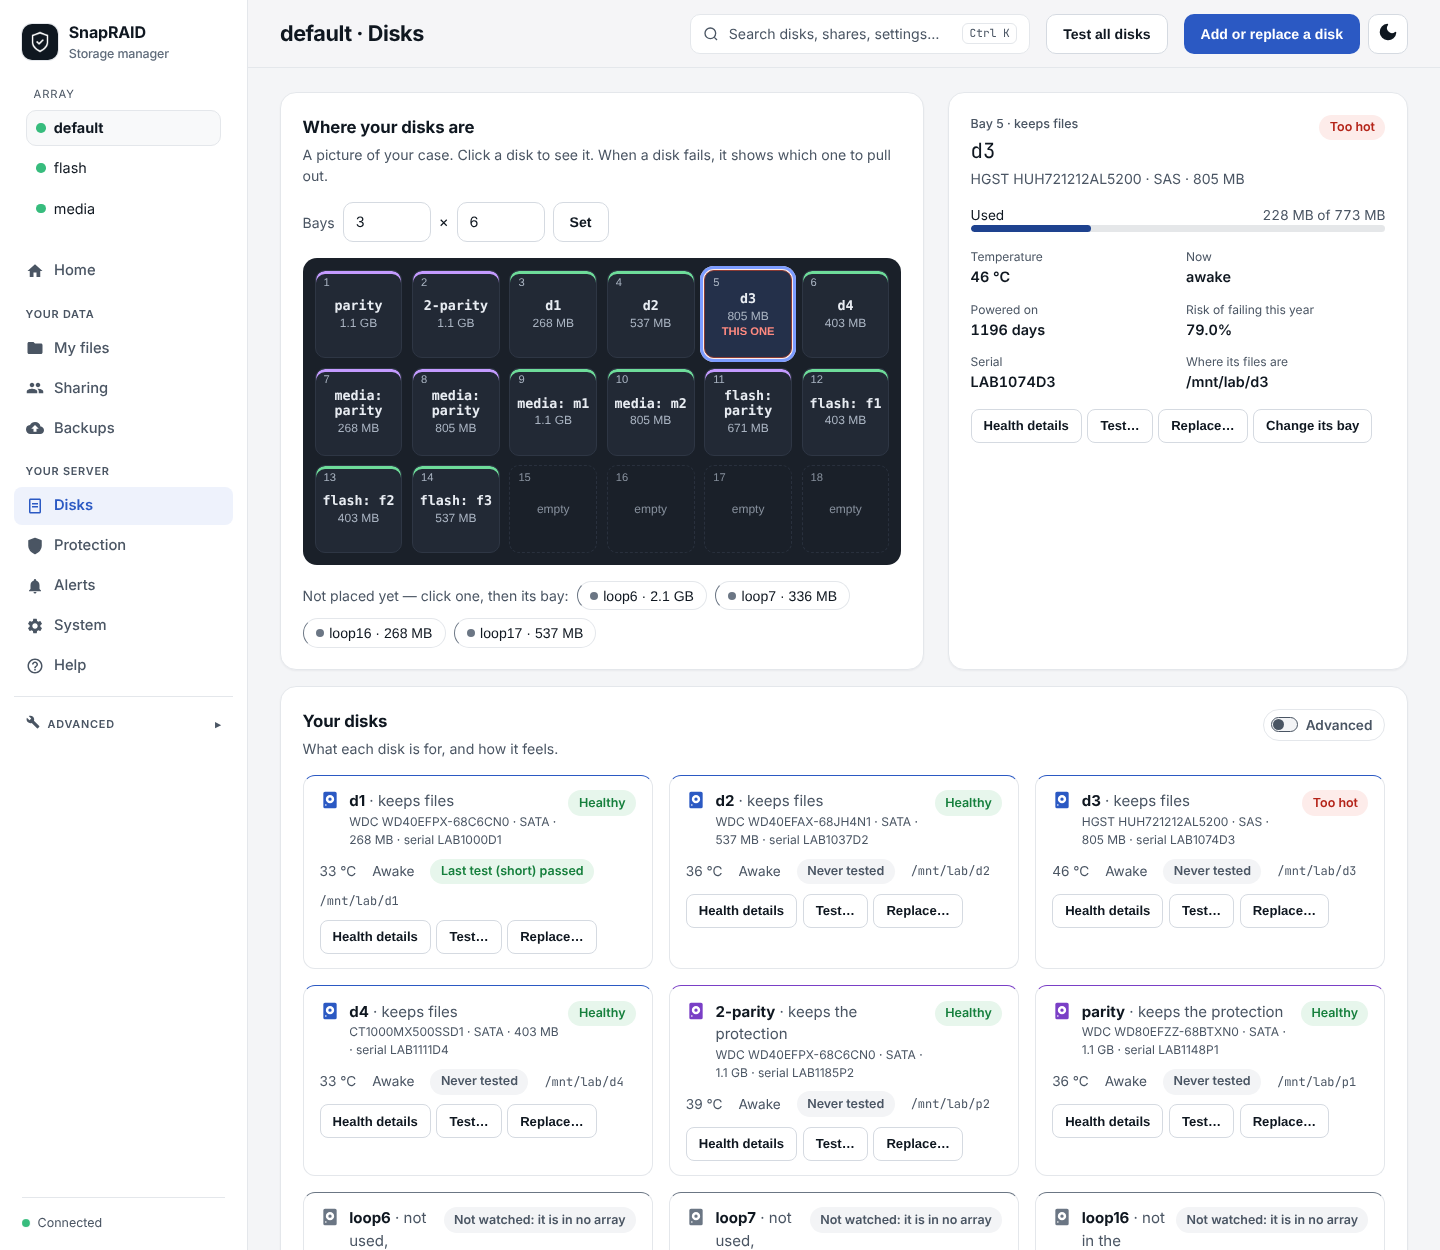
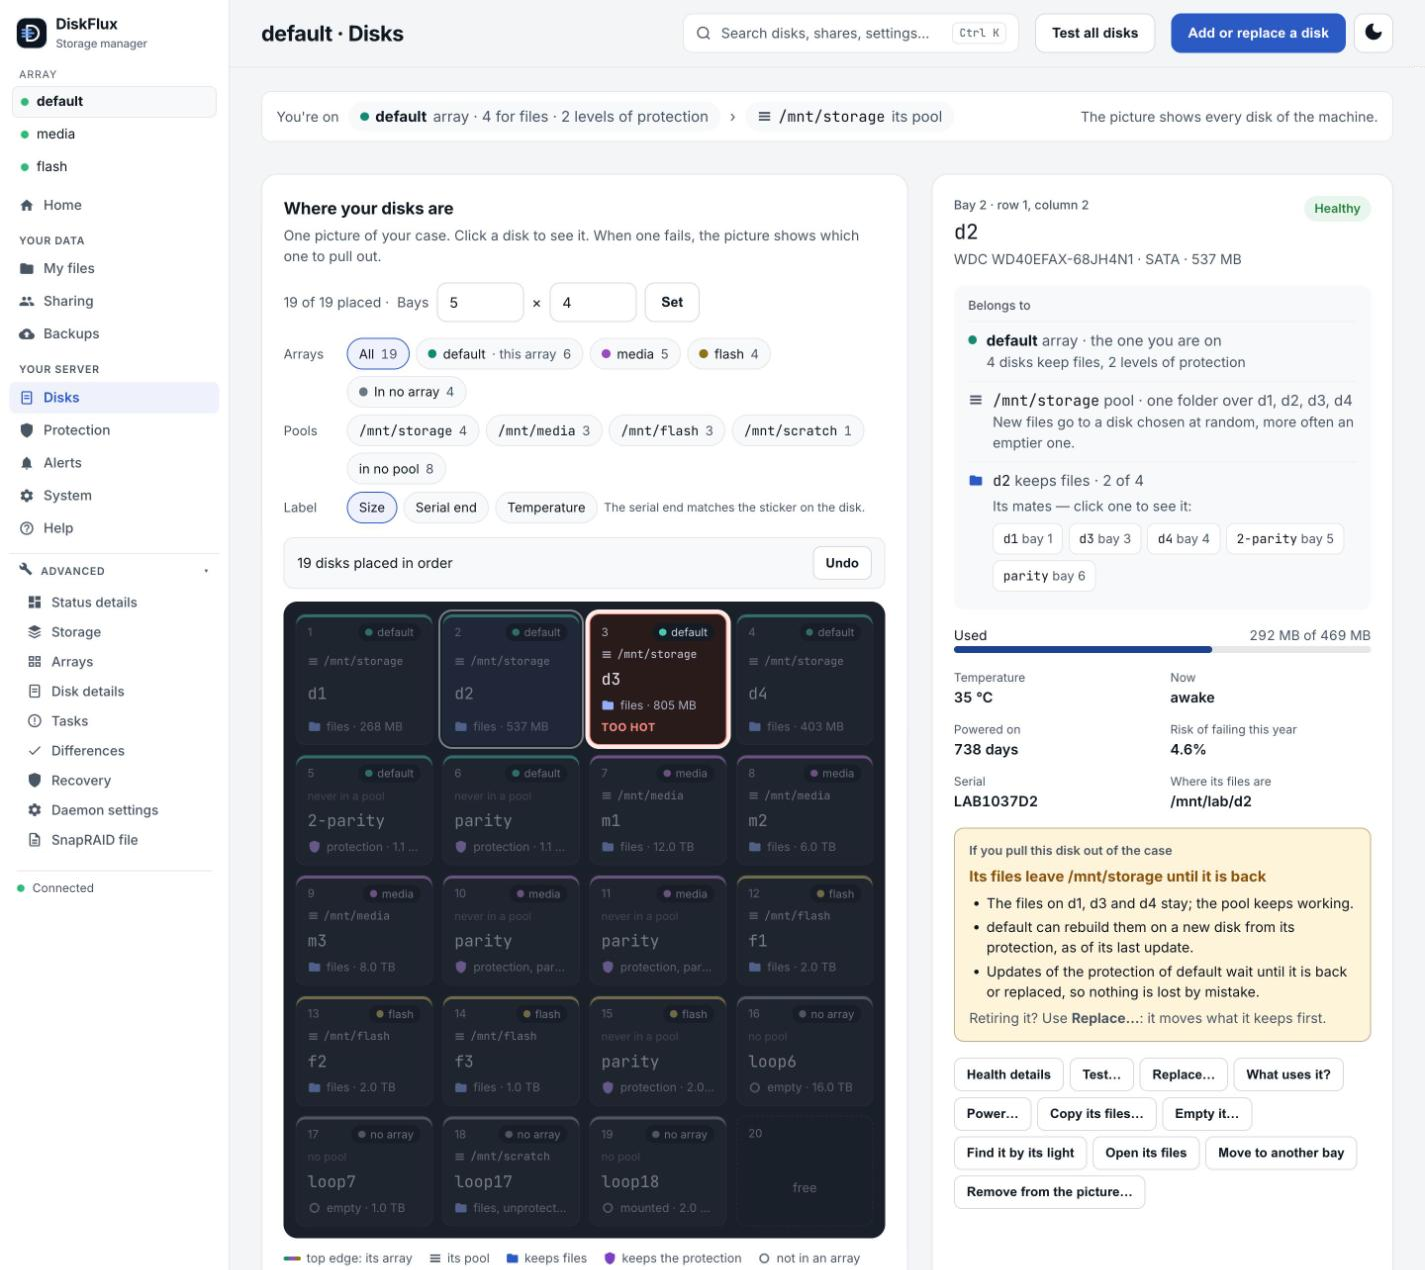
README and screenshots for 1.1 and 1.2: the case on Disks, the check before writing, the SnapRAID file page; their shots in shots-ready.json; the new tests

diff --git a/README.md b/README.md
@@ -38,7 +38,8 @@ two backups. The pictures further down are of Commander, the original look, with
 | | |
 |---|---|
 | **Home**: is it safe, with the one thing to do; the last 14 days; space with when it gets full; disks, checks, what comes next, backups, shares, what happened<br>[![Home](docs/screenshots/quiet-home.png)](docs/screenshots/quiet-home.png) | **Home in the dark**: the same, following the computer<br>[![Home, dark](docs/screenshots/quiet-home-dark.png)](docs/screenshots/quiet-home-dark.png) |
-| **Disks**: a click on a bay shows that disk, its facts and what can be done<br>[![Disks](docs/screenshots/quiet-disks.png)](docs/screenshots/quiet-disks.png) | **Protection**: the rules in plain words, how long ago each part was checked, the past runs<br>[![Protection](docs/screenshots/quiet-protection.png)](docs/screenshots/quiet-protection.png) |
+| **Disks**: the case bay by bay, a colour for each array, the pool of every disk; a click on a bay shows that disk, what it belongs to, what pulling it out would do, and what can be done<br>[![Disks](docs/screenshots/quiet-disks.png)](docs/screenshots/quiet-disks.png) | **Protection**: the rules in plain words, how long ago each part was checked, the past runs<br>[![Protection](docs/screenshots/quiet-protection.png)](docs/screenshots/quiet-protection.png) |
+| **Check before writing**: every change of the SnapRAID file shown first, in plain words and line by line (changes only, whole file, or before and after), and checked for mistakes<br>[![Check before writing](docs/screenshots/config-review.png)](docs/screenshots/config-review.png) | **SnapRAID file** (Advanced): the file as text with checks as you type, and the history of its last 30 versions to compare or put back<br>[![SnapRAID file](docs/screenshots/snapraid-file.png)](docs/screenshots/snapraid-file.png) |
 | **Search** (Ctrl K): pages, disks, shares, backups, settings<br>[![Search](docs/screenshots/quiet-search.png)](docs/screenshots/quiet-search.png) | **Phone**<br>[![Phone](docs/screenshots/quiet-phone.png)](docs/screenshots/quiet-phone.png) |
 
 ### The pages for everyday use
@@ -101,9 +102,9 @@ of a few hundred MB, described to SnapRAID and to the UI as the disks of the tab
 | **Array & disks**: every disk the machine sees, with model, serial, kind, size and filesystem<br>[![Array & disks](docs/screenshots/array-and-disks.png)](docs/screenshots/array-and-disks.png) | **Kinds of disk**: HDD, SAS and SSD in one array, and two disks outside it that are watched all the same (`extra`)<br>[![Kinds of disk](docs/screenshots/showcase-disks.png)](docs/screenshots/showcase-disks.png) |
 | **An array of flash disks**: NVMe and SSD, with their wear in place of the failure probability<br>[![An array of flash disks](docs/screenshots/showcase-disks-flash.png)](docs/screenshots/showcase-disks-flash.png) | **A split parity**: one parity level over two disks: the first is full, the second holds the rest<br>[![A split parity](docs/screenshots/showcase-split-parity.png)](docs/screenshots/showcase-split-parity.png) |
 | **Storage of another array**: the sidebar chooses the array; this one places new files next to their folder, and the advisor says what that means<br>[![Storage of another array](docs/screenshots/arrays-storage.png)](docs/screenshots/arrays-storage.png) | **Pool**: the pools of the machine with branches, protection, placement policy and balance<br>[![Pool](docs/screenshots/pool.png)](docs/screenshots/pool.png) |
-| **Configuration**: the SnapRAID configuration as a form, or as text for the options the form does not have<br>[![Configuration](docs/screenshots/configuration.png)](docs/screenshots/configuration.png) | **Options of an array**: every array has its own schedule, thresholds, scrub plan, spin down, hook and notifications<br>[![Options of an array](docs/screenshots/showcase-settings.png)](docs/screenshots/showcase-settings.png) |
+| **Configuration**: the SnapRAID configuration as a form; "Edit as text" opens Advanced › SnapRAID file; every save is shown line by line first<br>[![Configuration](docs/screenshots/configuration.png)](docs/screenshots/configuration.png) | **Options of an array**: every array has its own schedule, thresholds, scrub plan, spin down, hook and notifications<br>[![Options of an array](docs/screenshots/showcase-settings.png)](docs/screenshots/showcase-settings.png) |
 | **Guided setup, 1**: choose the disks and their role; every disk comes with model and serial<br>[![Guided setup, 1](docs/screenshots/setup-1-disks.png)](docs/screenshots/setup-1-disks.png) | **Guided setup, 2**: filesystem, mount points, pool and its policy<br>[![Guided setup, 2](docs/screenshots/setup-2-options.png)](docs/screenshots/setup-2-options.png) |
-| **Guided setup, 3**: what is going to be done, in order, before anything is erased<br>[![Guided setup, 3](docs/screenshots/setup-3-review.png)](docs/screenshots/setup-3-review.png) | **Create a pool**: any set of mounted disks; the ones without parity are marked<br>[![Create a pool](docs/screenshots/pool-create.png)](docs/screenshots/pool-create.png) |
+| **Guided setup, 3**: what is going to be done, in order, and the lines of the SnapRAID file it writes, before anything is erased<br>[![Guided setup, 3](docs/screenshots/setup-3-review.png)](docs/screenshots/setup-3-review.png) | **Create a pool**: any set of mounted disks; the ones without parity are marked<br>[![Create a pool](docs/screenshots/pool-create.png)](docs/screenshots/pool-create.png) |
 | **Replace a disk**: the steps, a warning when the new disk is larger than the parity, and the confirmation to type<br>[![Replace a disk](docs/screenshots/replace-disk.png)](docs/screenshots/replace-disk.png) | **Balance**: what happens and what does not change<br>[![Balance](docs/screenshots/balance.png)](docs/screenshots/balance.png) |
 | **Degraded array**: a disk came back empty: maintenance is suspended and the advisor offers the recovery<br>[![Degraded array](docs/screenshots/degraded.png)](docs/screenshots/degraded.png) | **Recover**: choose the lost disks; fix, check and sync in one command<br>[![Recover](docs/screenshots/recover.png)](docs/screenshots/recover.png) |
 | **Recovery in the Tasks page**: every step with its result<br>[![Recovery in the Tasks page](docs/screenshots/recover-tasks.png)](docs/screenshots/recover-tasks.png) | **Add an array**: a name, and optionally an existing SnapRAID configuration to take over<br>[![Add an array](docs/screenshots/arrays-add.png)](docs/screenshots/arrays-add.png) |
@@ -263,11 +264,12 @@ and the layout tests of the selftest):
 
 | What | Where | Run |
 |---|---|---|
-| Daemon selftest: validation of everything coming from the network, mount table parsing, fstab editing, pool helpers | fork, `daemon/storage.c` (`storage_selftest`) | `make check`, or `diskflux test` |
+| Daemon selftest: validation of everything coming from the network, mount table parsing, fstab editing, pool helpers, the history of the SnapRAID file | fork, `daemon/storage.c` (`storage_selftest`) | `make check`, or `diskflux test` |
 | Logic of the Storage page: configuration parsing, disk states, guided setup rules, advisor | fork, `test/ui/storage.test.mjs` | `make check`, or `node --test test/ui/storage.test.mjs` |
-| Storage API end to end, on the emulated disks: format, mount, fstab, pool, browse, duplicates, balance, recovery of a replaced disk, permissions | here, `tests/api-test.sh` | see below |
+| Check before writing: the line diff, the plain words of a change, the problems of a SnapRAID file, the views, lines nobody changed kept as written | fork, `test/ui/confreview.test.mjs` | `make check`, or `node --test test/ui/confreview.test.mjs` |
+| Storage API end to end, on the emulated disks: format, mount, fstab, pool, browse, duplicates, balance, recovery of a replaced disk, permissions, the history of the SnapRAID file (a copy at every write, a change by hand kept, 30 kept) | here, `tests/api-test.sh` | see below |
 
-The first two run at every image build (a failure stops the build). The third formats disks,
+The first three run at every image build (a failure stops the build). The last formats disks,
 so it has its own throwaway lab:
 
     docker compose -f docker-compose.test.yml up --build --abort-on-container-exit --exit-code-from tests
